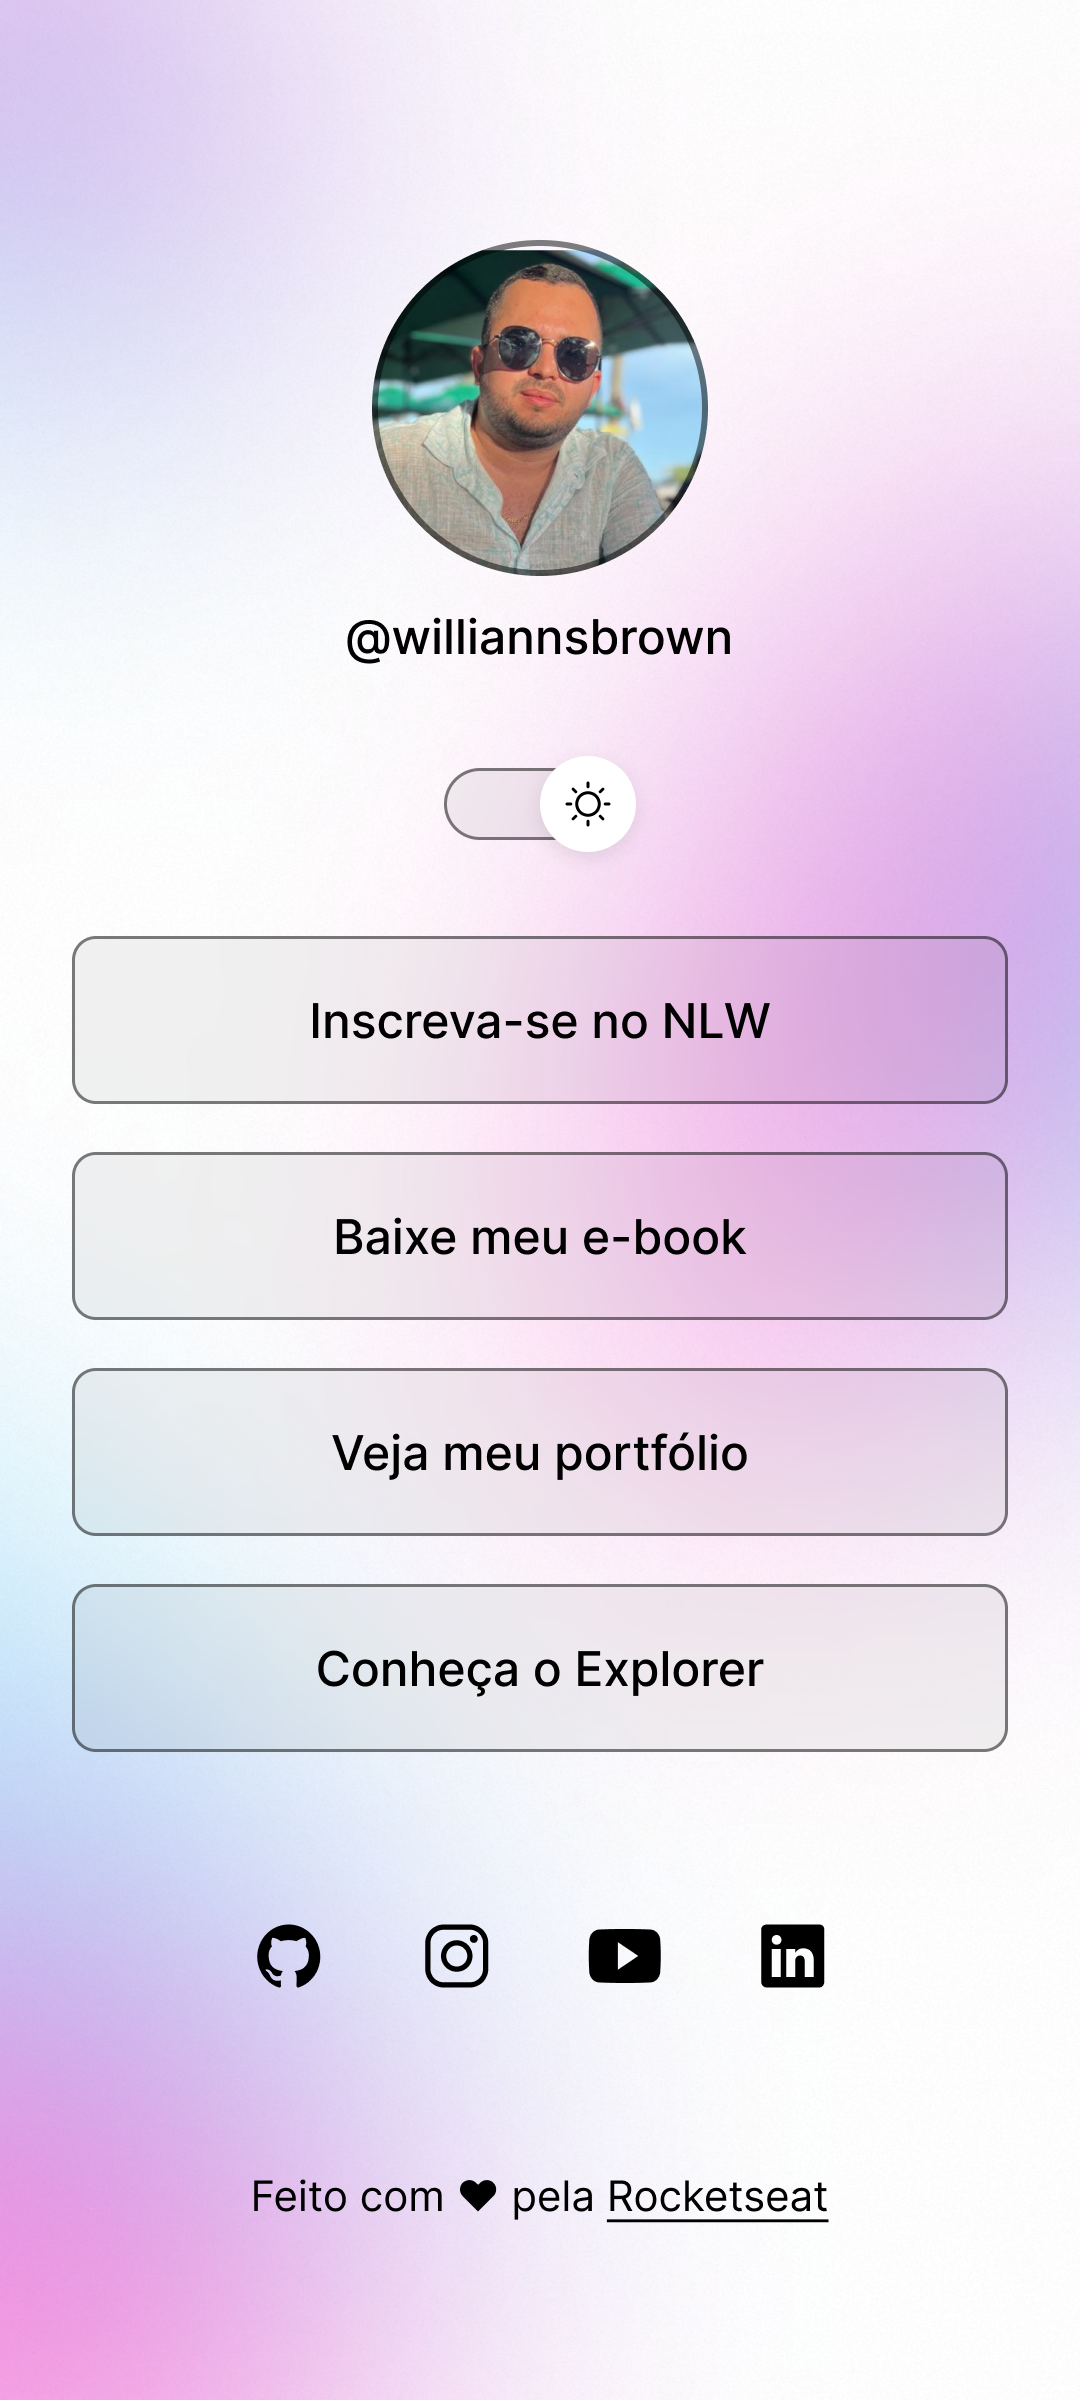
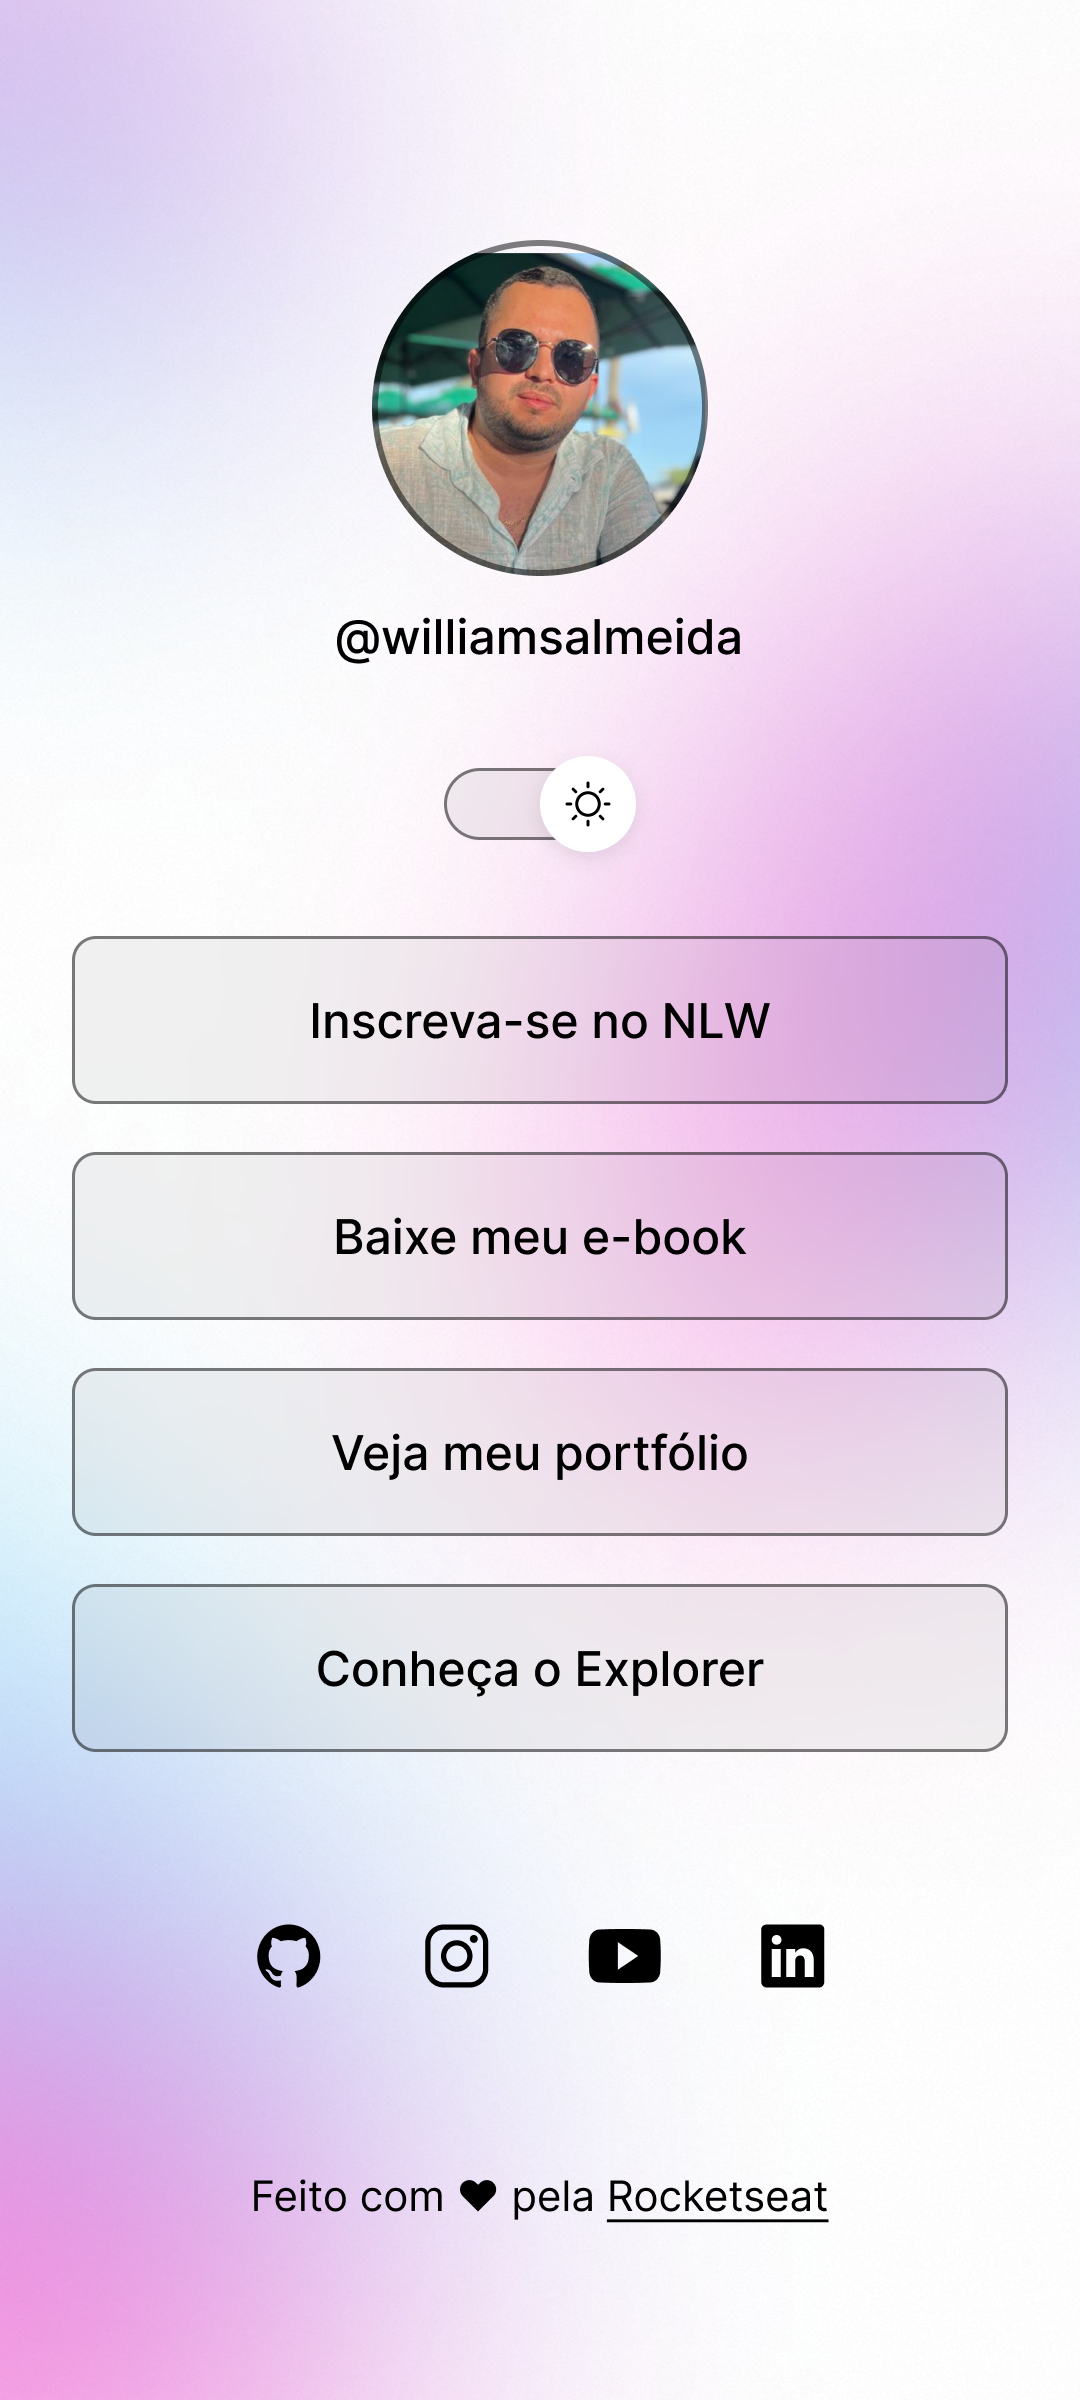
changing name and read.me

Changed region(s): [[0.3056, 0.0938, 0.7028, 0.2812]]

diff --git a/index.html b/index.html
@@ -20,7 +20,7 @@
           src="./assets/avatar-brownlight.png"
           alt="Williams Almeida, na de óculos de sol, camisa de botão clara, em ambiente praiano."
         />
-        <p>@williannsbrown</p>
+        <p>@williamsalmeida</p>
       </div>
 
       <div id="switch" onclick="toggleMode()">
